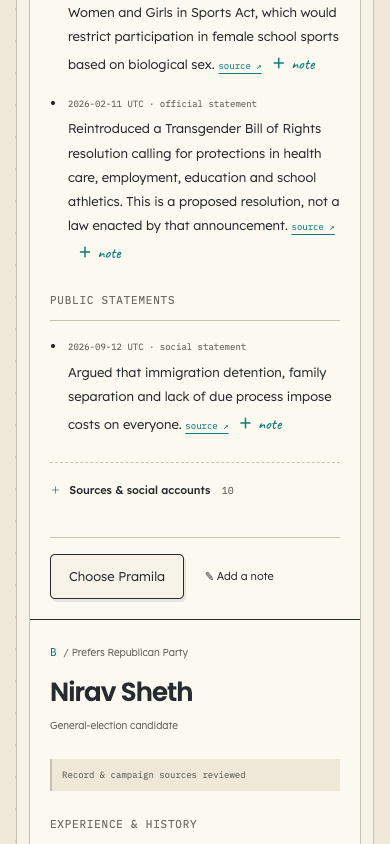
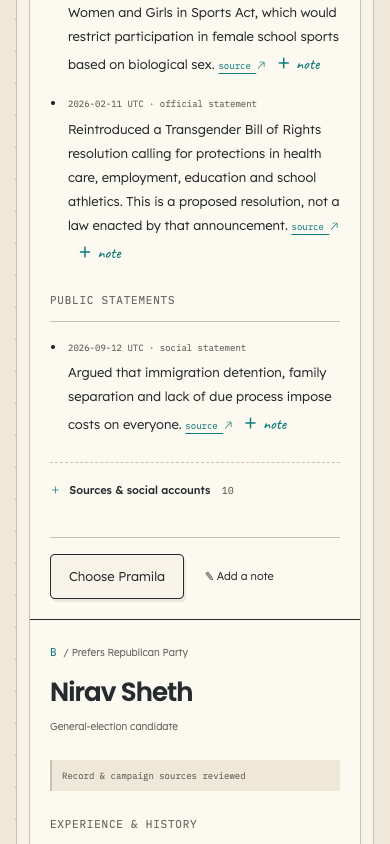
Use shared SVG arrows throughout the voting guide

diff --git a/app/components/politics/PoliticsGuide.tsx b/app/components/politics/PoliticsGuide.tsx
@@ -7,6 +7,7 @@ import {
   Input,
   RadioGroup,
   Select,
+  SketchArrow,
   Tabs,
   Textarea,
   ThemeProvider,
@@ -35,7 +36,7 @@ function Links({ sources }: { sources: Source[] }) {
       {sources.map((s, i) => (
         <li key={`${s.url}-${i}`}>
           <a href={s.url} {...external}>
-            {s.label} <span aria-hidden='true'>↗</span>
+            {s.label} <SketchArrow />
           </a>
           {s.kind && <small>{s.kind.replaceAll('-', ' ')}</small>}
         </li>
@@ -64,7 +65,7 @@ function Cited({ text, sources }: { text: string; sources: Source[] }) {
                     {i > 0 ? '; ' : ''}
                     {source ? (
                       <a href={source.url} {...external}>
-                        {label} ↗
+                        {label} <SketchArrow />
                       </a>
                     ) : (
                       label
@@ -425,7 +426,7 @@ function NotebookGuide() {
                         {...external}
                         aria-label={`Source for ${fact.text}`}
                       >
-                        source ↗
+                        source <SketchArrow />
                       </a>
                     </>
                   )}
@@ -737,7 +738,7 @@ function NotebookGuide() {
           and Seattle’s applicable courts. The printed pamphlet covers other
           districts, too.{' '}
           <a href='https://votewa.gov/' {...external}>
-            Verify your exact ballot ↗
+            Verify your exact ballot <SketchArrow />
           </a>
         </span>
       </div>
@@ -944,7 +945,7 @@ function NotebookGuide() {
         <div className='pg-rail-inner' id='politics-navigation'>
           <div className='pg-rail-label'>A PAGE FOR MAKING SENSE</div>
           <a className='pg-active-link' href='/politics/' aria-current='page'>
-            <span>17</span> Politics <span aria-hidden='true'>↗</span>
+            <span>17</span> Politics <SketchArrow />
           </a>
           <nav aria-label='Politics index'>
             <button onClick={() => selectSection('all')}>
@@ -970,9 +971,11 @@ function NotebookGuide() {
           </div>
           <div className='pg-rail-bottom'>
             <a href='https://votewa.gov/' {...external}>
-              Your official ballot ↗
+              Your official ballot <SketchArrow />
             </a>
-            <a href='/'>← Back to the notebook</a>
+            <a href='/'>
+              <SketchArrow direction='left' /> Back to the notebook
+            </a>
             {ready && <ThemeToggle compact />}
             <span className='pg-rail-date'>p.17 / politics</span>
           </div>
@@ -1019,8 +1022,9 @@ function NotebookGuide() {
                 variant='secondary'
                 disabled={!ready}
                 onClick={exportNotebook}
+                trailingIcon={<SketchArrow />}
               >
-                Export backup ↗
+                Export backup
               </Button>
               <Button
                 ref={importOpener}
@@ -1055,7 +1059,7 @@ function NotebookGuide() {
           <footer className='pg-footer'>
             <span>Made with Domino UI. Read with curiosity.</span>
             <a href='https://kingcounty.gov/elections' {...external}>
-              King County Elections ↗
+              King County Elections <SketchArrow />
             </a>
           </footer>
         </main>

diff --git a/app/styles/politics.css b/app/styles/politics.css
@@ -142,7 +142,7 @@ body:has(.politics-app) {
   font: 11px var(--dm-font-mono);
   color: var(--dm-sidebar-accent);
 }
-.pg-active-link > span:last-child {
+.pg-active-link > .dm-sketch-arrow {
   margin-left: auto;
   color: var(--dm-sidebar-accent);
 }
